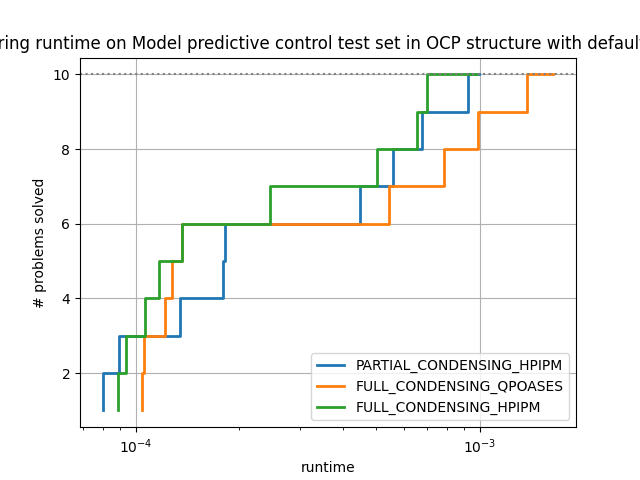
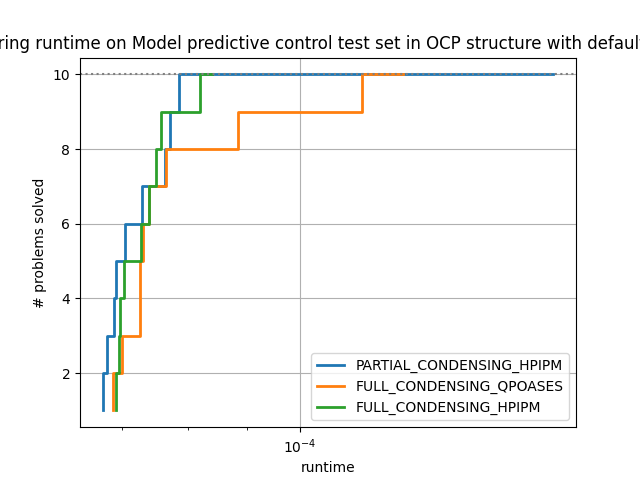
update: enable parametrized QP and reuse solver obejct

diff --git a/problem_ocp.py b/problem_ocp.py
@@ -1,50 +1,85 @@
 """Matrix-vector representation of a quadratic program."""
 
-import os
-
 import numpy as np
+import casadi as ca
+from acados_template import AcadosOcp, AcadosParamManager, AcadosParam
 
-
-class QP_Problem():
+class parametric_QP_Problem():
     """
     Quadratic program with OCP structure.
     Q and R as cost matrices,
     A and B as dynamics matrices.
     """
+
     def __init__(
         self,
         N: int,
-        Q: np.ndarray,
-        R: np.ndarray,
-        Q_e: np.ndarray,
-        A: np.ndarray,
-        B: np.ndarray,
-        name: str,
+        nx: int,
+        nu: int,
+        solver: str,
+        settings: str,
     ):
-        """Quadratic program in qpsolvers format."""
-        self.N = N
-        self.Q = Q
-        self.R = R
-        self.Q_e = Q_e
-        self.A = A
-        self.B = B
-        self.name = name
+        '''
+        Formulate an OCP problem for acados from QP_Problem.
+        '''
+        ocp = AcadosOcp()
+        # params
+        A_param = AcadosParam("A", np.zeros((nx, nx)))
+        B_param = AcadosParam("B", np.zeros((nx, nu)))
+        Q_param = AcadosParam("Q", np.zeros((nx, nx)))
+        R_param = AcadosParam("R", np.zeros((nu, nu)))
 
-    @staticmethod
-    def load(file: str):
+        param_manager = AcadosParamManager([A_param, B_param, Q_param, R_param])
+        param_manager.N_horizon = N
+
+        ocp.model.name = 'parametric_QP_OCP'
+
+        # set up model
+        x = ca.SX.sym("x", nx)
+        u = ca.SX.sym("u", nu)
+        ocp.model.x = x
+        ocp.model.u = u
+        ocp.model.p = param_manager.get_p_stagewise_expression()
+
+        # dynamics
+        A_expr = param_manager.get_expression("A")
+        B_expr = param_manager.get_expression("B")
+        f_expl = ca.mtimes(A_expr, x) + ca.mtimes(B_expr, u)
+        ocp.model.disc_dyn_expr = f_expl
+
+        # get matrices
+        Q = param_manager.get_expression("Q")
+        R = param_manager.get_expression("R")
+
+        # set up cost
+        x_res = ocp.model.x
+        u_res = ocp.model.u
+        ocp.cost.cost_type = "EXTERNAL"
+        ocp.model.cost_expr_ext_cost = 0.5 * (x_res.T @ Q @ x_res + u_res.T @ R @ u_res)
+        ocp.cost.cost_type_e = "EXTERNAL"
+        ocp.model.cost_expr_ext_cost_e = 0.5 * (x_res.T @ Q @ x_res)
+
+        ocp.parameter_values = param_manager.get_p_stagewise_values(stage=0)
+        # set options
+        ocp.solver_options.tf = 1.0*N
+        ocp.solver_options.N_horizon = N
+        ocp.solver_options.qp_solver = solver if solver is not None else 'PARTIAL_CONDENSING_HPIPM'
+        ocp.solver_options.hessian_approx = 'EXACT'
+        ocp.solver_options.integrator_type = 'DISCRETE'
+        if settings == 'default':
+            pass
+
+        self.ocp = ocp
+        self.param_manager = param_manager
+
+    def populate_manager(self, file: str):
         """Load problem from file.
-
         Args:
             file: Path to the file to read.
         """
-        name = os.path.splitext(os.path.basename(file))[0]
         loaded = np.load(file)
-        return QP_Problem(
-            int(loaded["N"]),
-            loaded["Q"],
-            loaded["R"],
-            loaded["Q_e"],
-            loaded["A"],
-            loaded["B"],
-            name,
-        )
+        for i in range(self.ocp.solver_options.N_horizon):
+            self.param_manager.set_value(name="A", value=loaded["A"], stage=i)
+            self.param_manager.set_value(name="B", value=loaded["B"], stage=i)
+            self.param_manager.set_value(name="Q", value=loaded["Q"], stage=i)
+            self.param_manager.set_value(name="R", value=loaded["R"], stage=i)

diff --git a/test_set_ocp.py b/test_set_ocp.py
@@ -3,12 +3,13 @@
 import os
 from typing import Dict, Iterator, Optional, Set, Tuple
 
-from problem_ocp import QP_Problem
+from problem_ocp import parametric_QP_Problem
 from solver_settings_ocp import SolverSettings
 
 import casadi as ca
 from acados_template import AcadosOcp, AcadosModel
 
+from utils import read_problem_size_from_dir
 
 class TestSet():
     """
@@ -37,65 +38,33 @@ class TestSet():
 
         self.solvers = solvers
         self.solver_settings = SolverSettings.SOLVER_SETTINGS
+
         current_dir = os.path.dirname(os.path.abspath(__file__))
         data_dir = os.path.join(current_dir, "data")
         self.data_dir = data_dir
+        self.subdirs = os.listdir(self.data_dir)
 
-    def __iter__(self) -> Iterator[QP_Problem]:
-        """Yield test-set problems one by one."""
-        for fname in os.listdir(self.data_dir):
-            if fname.endswith(".npz"):
-                yield QP_Problem.load(os.path.join(self.data_dir, fname))
+    def iter(self, ocp_template: parametric_QP_Problem, subdir) -> Iterator[parametric_QP_Problem]:
+        """populate parameter manager one by one."""
+        for fname in os.listdir(os.path.join(self.data_dir, subdir)):
+            ocp_template.ocp.name = subdir + "_" + fname.replace('.npz','')
+            ocp_template.populate_manager(os.path.join(self.data_dir, subdir, fname))
+            yield ocp_template
+
+    def create_OCP_template(self, subdir: str, solver: str = None, settings: str = None) -> parametric_QP_Problem:
+        N, nx, nu = read_problem_size_from_dir(subdir)
+        ocp_template = parametric_QP_Problem(
+            N=N,
+            nx=nx,
+            nu=nu,
+            solver=solver,
+            settings=settings,
+        )
+        return ocp_template
 
     def count_problems(self) -> int:
         """Count the number of problems in the test set."""
-        return sum(1 for _ in self)
-
-    def formulate_OCP_problem(self, problem: QP_Problem, solver: str, settings: str) -> AcadosOcp:
-        '''
-        Formulate an OCP problem for acados from QP_Problem.
-        '''
-        N = int(problem.N)
-        model = AcadosModel()
-        model.name = 'linear_system'
-
-        # set up model
-        nx = problem.A.shape[0]
-        nu = problem.B.shape[1]
-
-        x = ca.SX.sym("x", nx)
-        u = ca.SX.sym("u", nu)
-        model.x = x
-        model.u = u
-
-        # dynamics
-        A = problem.A
-        B = problem.B
-        f_expl = ca.mtimes(A, x) + ca.mtimes(B, u)
-        model.f_expl_expr = f_expl
-
-        ocp = AcadosOcp()
-        ocp.model = model
-
-        # get matrices
-        Q = problem.Q
-        R = problem.R
-        Q_e = problem.Q_e
-
-        # set up cost
-        x_res = ocp.model.x
-        u_res = ocp.model.u
-        ocp.cost.cost_type = "EXTERNAL"
-        ocp.model.cost_expr_ext_cost = 0.5 * (x_res.T @ Q @ x_res + u_res.T @ R @ u_res)
-        ocp.cost.cost_type_e = "EXTERNAL"
-        ocp.model.cost_expr_ext_cost_e = 0.5 * (x_res.T @ Q_e @ x_res)
-
-        # set options
-        ocp.solver_options.tf = 1.0*N
-        ocp.solver_options.N_horizon = N
-        ocp.solver_options.qp_solver = solver
-        if settings == 'default':
-            ocp.solver_options.hessian_approx = 'EXACT'
-            pass
-
-        return ocp
+        N_problems = 0
+        for subdir in self.subdirs:
+            N_problems += len(os.listdir(os.path.join(self.data_dir, subdir)))
+        return N_problems

diff --git a/results_ocp.py b/results_ocp.py
@@ -6,7 +6,7 @@ from typing import Dict, Optional, Tuple, Union
 import numpy as np
 import pandas
 
-from problem_ocp import QP_Problem
+from problem_ocp import parametric_QP_Problem
 from test_set_ocp import TestSet
 
 
@@ -82,7 +82,9 @@ class Results:
                 df = pandas.concat([df, df_from_file])
 
         # Filter out problems from the CSV that are in the test set
-        problems = set(problem.name for problem in test_set)
+        for subdir in test_set.subdirs:
+            ocp_template = test_set.create_OCP_template(subdir)
+            problems = set(ocp_problem.ocp.name for ocp_problem in test_set.iter(ocp_template, subdir))
         test_set_df = df[df["problem"].isin(problems)]
         complementary_df = df[~df["problem"].isin(problems)]
 
@@ -108,7 +110,7 @@ class Results:
 
     def update(
         self,
-        problem: QP_Problem,
+        problem: parametric_QP_Problem,
         solver: str,
         settings: str,
         context: dict,
@@ -124,7 +126,7 @@ class Results:
         """
         self.df = self.df.drop(
             self.df.index[
-                (self.df["problem"] == problem.name)
+                (self.df["problem"] == problem.ocp.name)
                 & (self.df["solver"] == solver)
                 & (self.df["settings"] == settings)
             ]
@@ -134,7 +136,7 @@ class Results:
                 self.df,
                 pandas.DataFrame(
                     {
-                        "problem": [problem.name],
+                        "problem": [problem.ocp.name],
                         "solver": [solver],
                         "settings": [settings],
                         "cost": [context['cost']],

diff --git a/generate_simple_QP.py b/generate_simple_QP.py
@@ -11,9 +11,9 @@ def generate_problems():
 
     for i in range(num_problems):
         # Random dimensions
-        nx = np.random.randint(2, 21) # [2, 20]
-        nu = np.random.randint(1, 11) # [1, 10]
-        
+        nx = 10
+        nu = 2
+
         # Simple Dynamics: x_{k+1} = A x_k + B u_k
         # Generating LTI system for simplicity
         A = np.random.randn(nx, nx)
